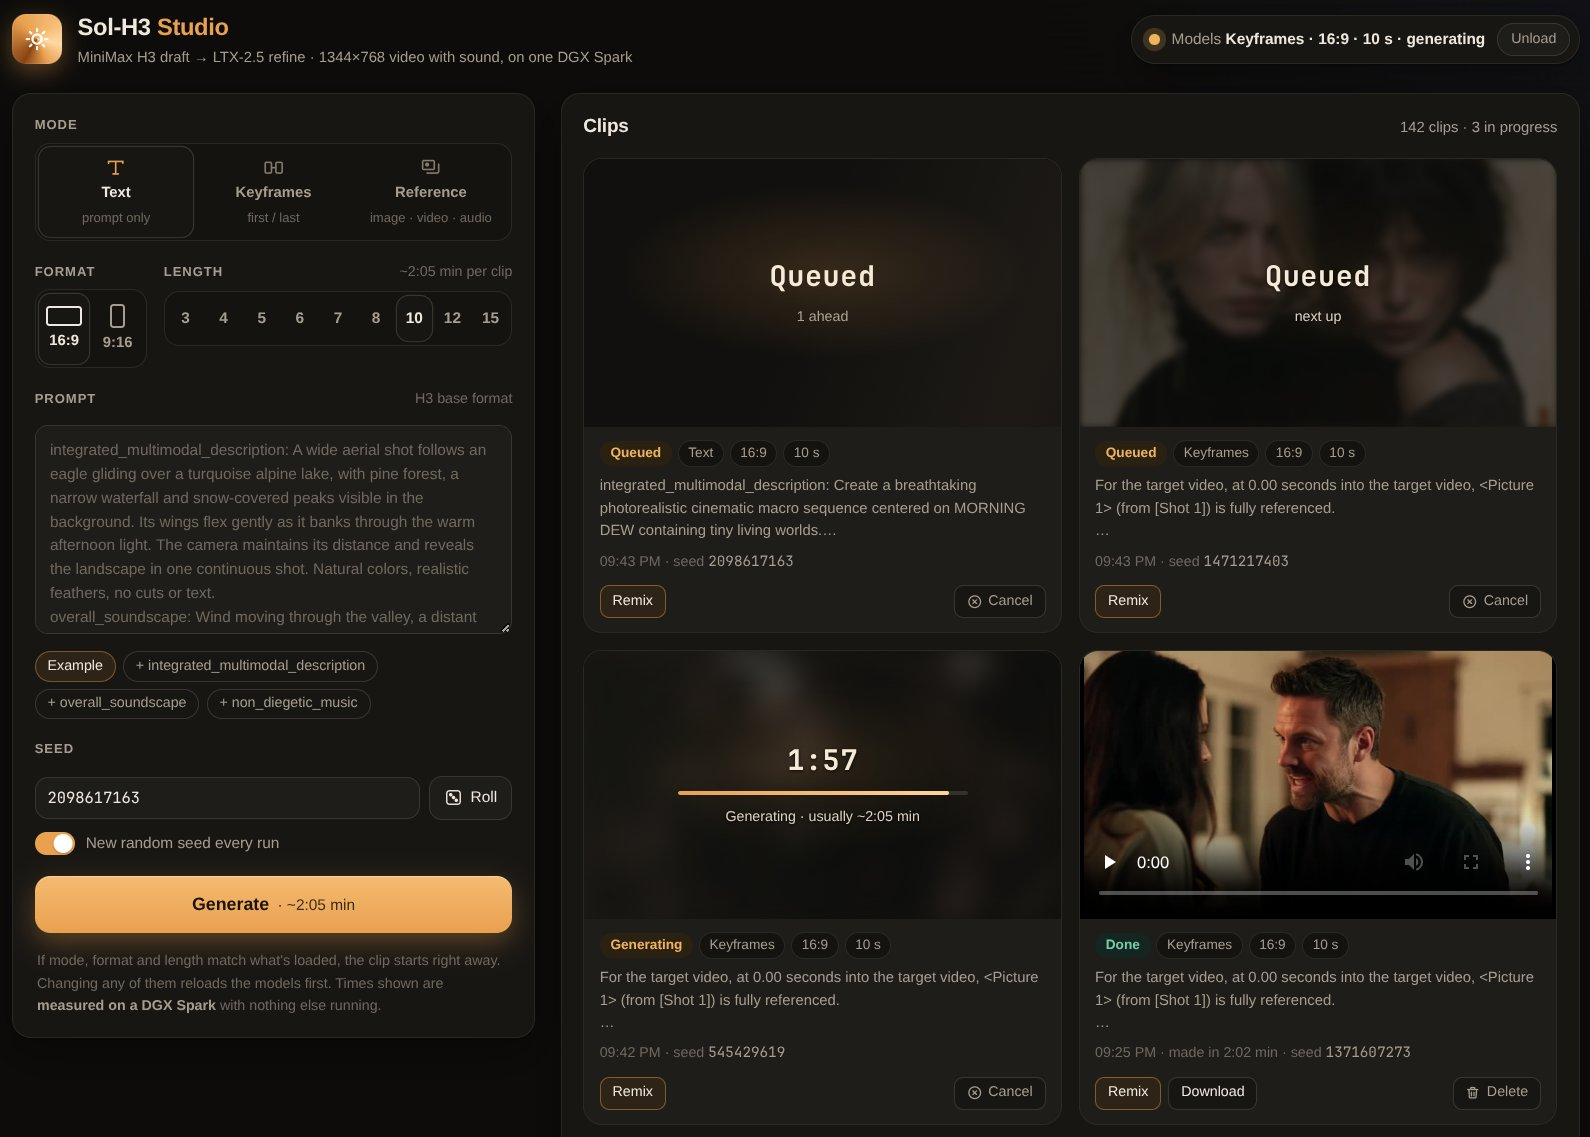
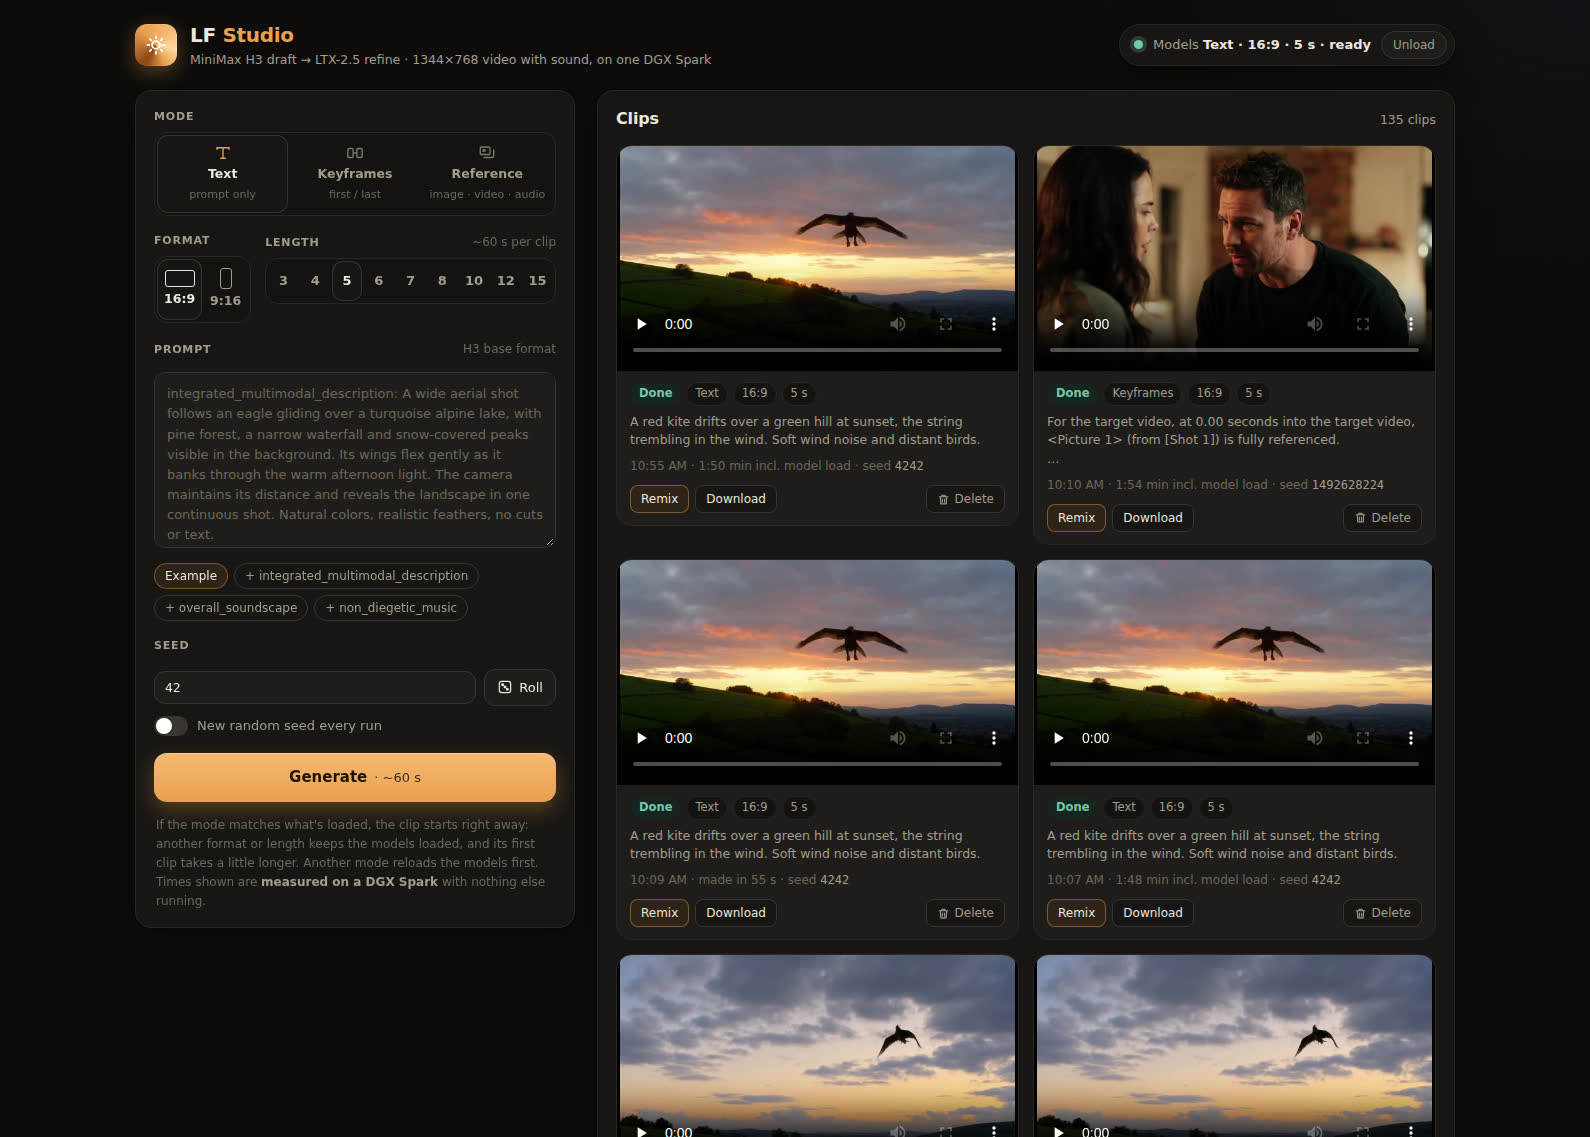
README screenshot: the page as LF Studio (#67)
Part of #62.

diff --git a/README.md b/README.md
@@ -4,7 +4,7 @@ Unofficial web studio and faster cold start for NVIDIA's Sol-H3 video+audio pipe
 or, since 0.5, Sol-H3-RTX5090 on one GeForce RTX 5090 with 64 GB of RAM ([docs/RTX5090.md](docs/RTX5090.md)).
 Formerly Sol-H3 Studio, renamed in 0.5 because NVIDIA's own front end for Sol-H3 has that name.
 
-![LF Studio interface with generation controls and a gallery of queued, generating, and completed clips](docs/images/lf-studio.jpeg)
+![LF Studio interface with generation controls and a gallery of finished clips](docs/images/lf-studio.jpeg)
 
 Not affiliated with or endorsed by NVIDIA, MiniMax or Lightricks. Model weights are not included; you download
 them yourself under each model's own terms ([Model terms](#model-terms)).
